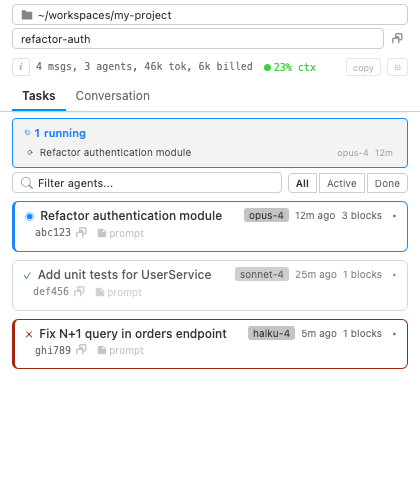
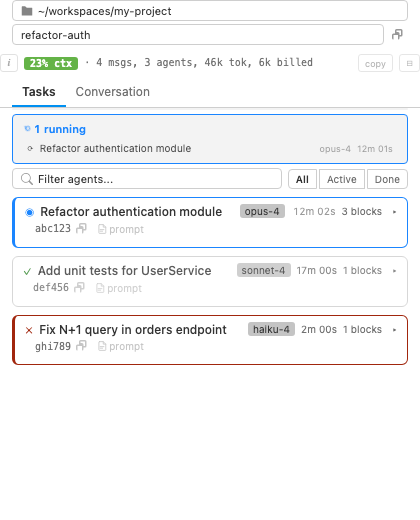
fix(screenshots): correctly themed agents + conversation captures
The bundled agentWebview.css ships `body { background: transparent }`
because the real VS Code webview host paints its own backdrop. In the
headless Playwright shots that left input/toolbar areas rendering on
white while the inner content stayed dark — the "mixed theme" look.

- Move the screenshot script's background onto html, after the bundled
  CSS, with !important so the cascade can't undo it.
- Use a function replacer for the inline `<script>` injection so `$`
  sequences in the IIFE bundle aren't treated as String.replace
  back-references (previously corrupted the script and broke rendering).
- Escape any literal `</script>` in the bundle before inlining.
- Regenerate all four agents/conversation captures and add the missing
  light-theme conversation companion to the README.

Changed region(s): [[0.0, 0.0, 0.9905, 0.75], [0.8357, 0.09, 0.9595, 0.15], [0.9595, 0.69, 0.9905, 0.72]]

diff --git a/README.md b/README.md
@@ -113,7 +113,11 @@ Expanded `<details>` blocks stay open across live updates, so a tool call you op
 
 ### Conversation tab
 
-![Conversation panel](https://raw.githubusercontent.com/IJuanI/claude-insights/main/media/conversation-panel.png)
+<p>
+  <img src="https://raw.githubusercontent.com/IJuanI/claude-insights/main/media/conversation-panel.png" alt="Conversation panel (dark)" width="48%" />
+  &nbsp;
+  <img src="https://raw.githubusercontent.com/IJuanI/claude-insights/main/media/conversation-panel-light.png" alt="Conversation panel (light)" width="48%" />
+</p>
 
 The full conversation, rendered exactly as Claude Code saw it. Messages load in batches of 50 — click "Load earlier messages" or flip the auto-load toggle to fetch more as you scroll up.
 